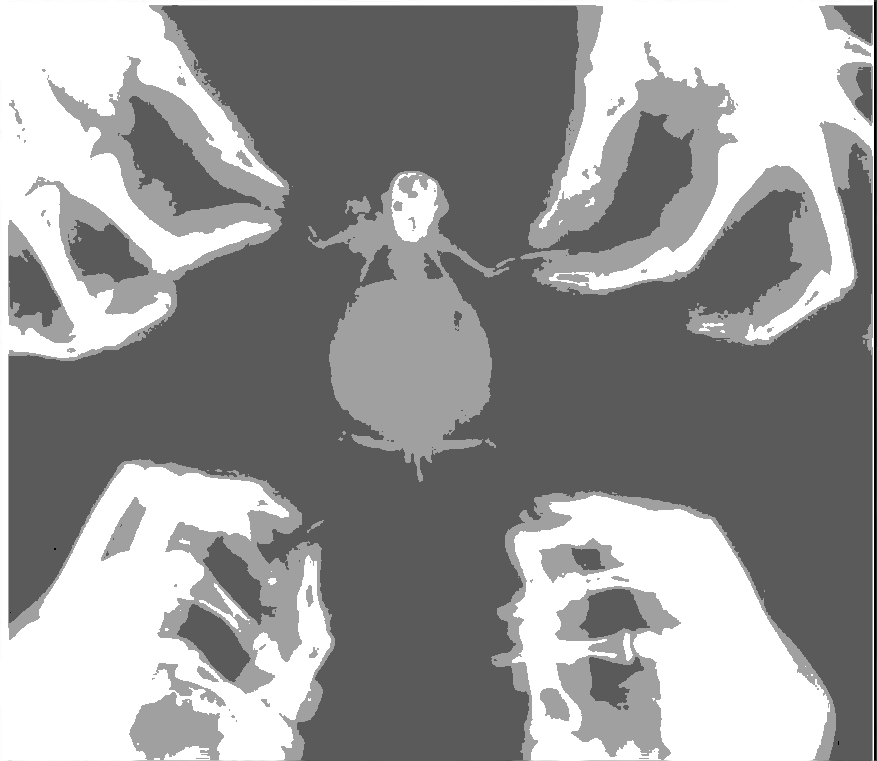
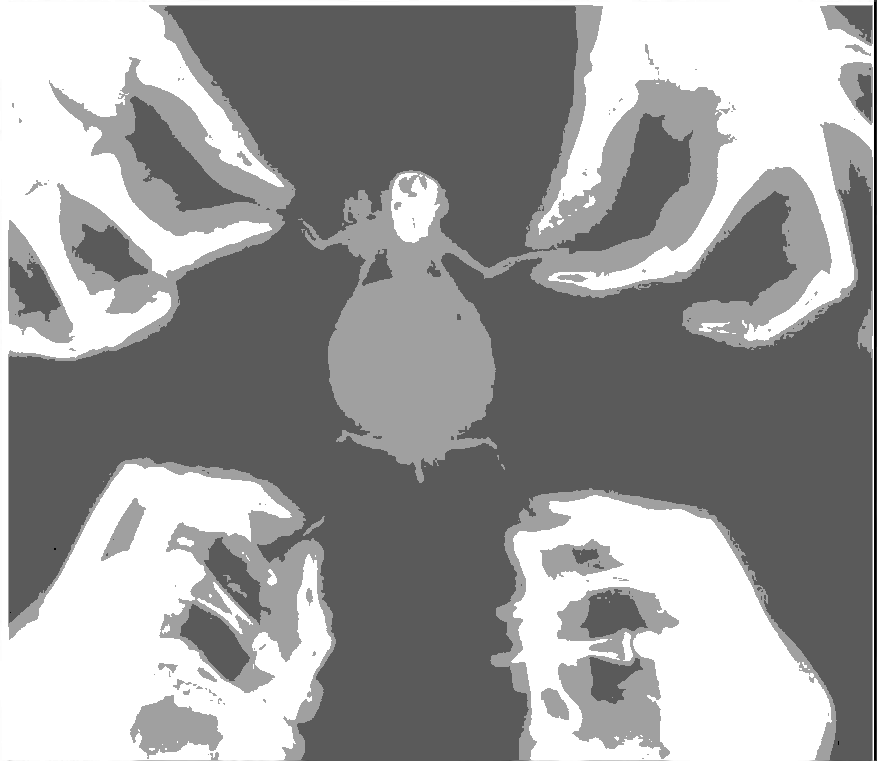
colorsss

diff --git a/main.c b/main.c
@@ -55,8 +55,8 @@ int main() {
 
     newImage = color_to_gray(idata, iw, ih, n);
     int t_black = 64;
-    int t_white = 185;
-    int t_gray = 115;
+    int t_white = 180;
+    int t_gray = 110;
     gray_to_bw(newImage, iw, ih, t_black, t_white, t_gray);
    
     char* outputPath = "result.png";
